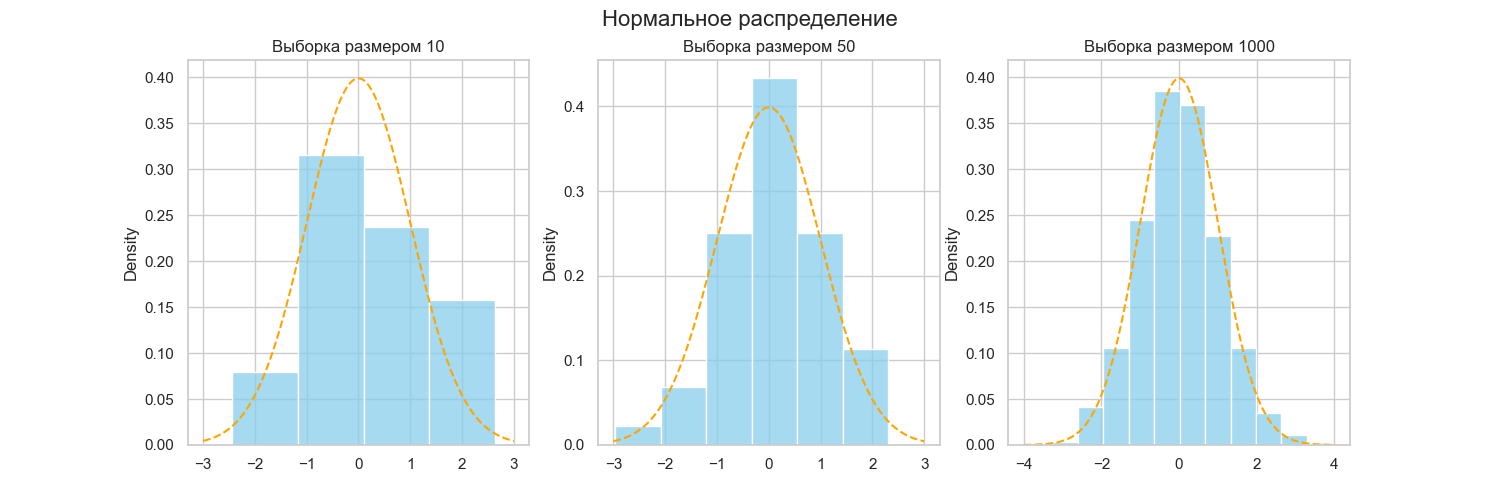
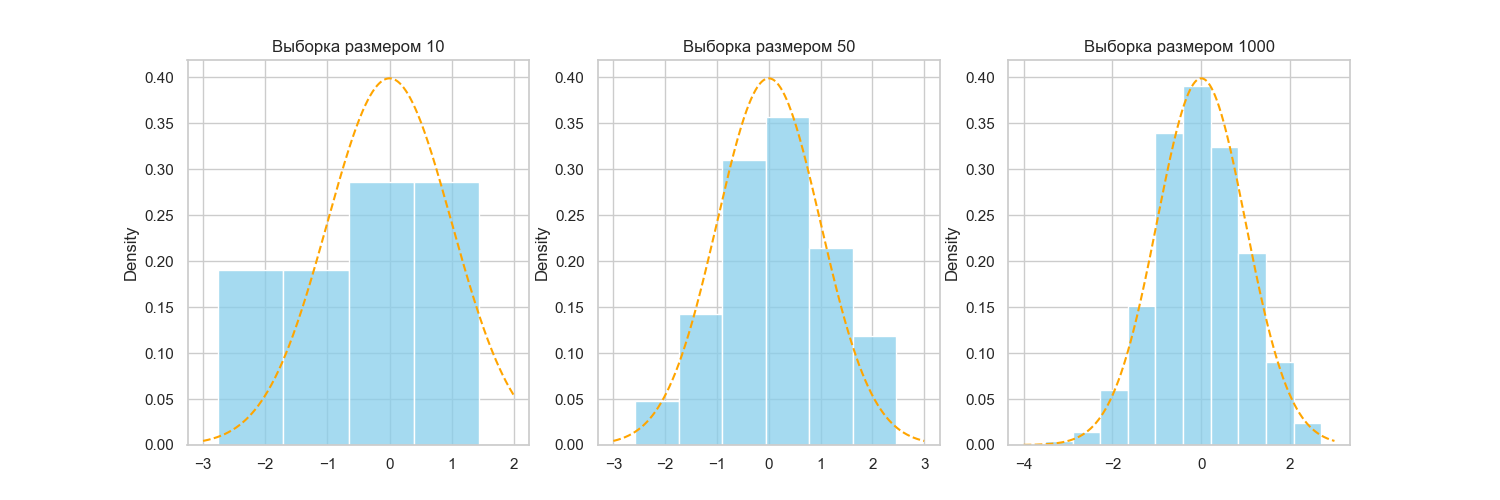
fix picture

diff --git a/main.py b/main.py
@@ -1,4 +1,3 @@
-import numpy as np
 import matplotlib.pyplot as plt
 import seaborn as sns
 import math
@@ -65,6 +64,8 @@ def generate_and_plot_cauchy_combined(sample_size, title, number):
     plt.plot(np.linspace(min_value_floor, max_value_ceil, 1000), pdf, label='PDF', linestyle='dashed', color='orange')
     plt.suptitle(title, fontsize=16)
 
+    if sample_size == 1000 or sample_size == 50:
+        plt.yscale('log')
 def print_characteristics(N: list) -> None:
     methods = [
         lambda n: np.random.normal(0.0, 1.0, n),
@@ -102,39 +103,44 @@ def print_characteristics(N: list) -> None:
             print(f"{names[i]} n = {n}")
             display(df)
 
+
+
 sample_sizes = [10, 50, 1000]
-print_characteristics(sample_sizes)
-'''
+#print_characteristics(sample_sizes)
+
+
+
+
 number = 1
 plt.figure(figsize=(15, 5))
 for size in sample_sizes:
-    generate_and_plot_normal_combined(size, 'Нормальное распределение', number)
+    generate_and_plot_normal_combined(size, '', number)
     number += 1
 plt.show()
 
 number = 1
 plt.figure(figsize=(15, 5))
 for size in sample_sizes:
-    generate_and_plot_student_combined(size, 'Распределение Стьюдента', number)
+    generate_and_plot_student_combined(size, '', number)
     number += 1
 plt.show()
 
 number = 1
 plt.figure(figsize=(15, 5))
 for size in sample_sizes:
-    generate_and_plot_poisson_combined(size, 'Распределение Пуассона (10)', number)
+    generate_and_plot_poisson_combined(size, '', number)
     number += 1
 plt.show()
 number = 1
 plt.figure(figsize=(15, 5))
 for size in sample_sizes:
-    generate_and_plot_uniform_combined(size, 'Равномерное распределение (-√3, √3)', number)
+    generate_and_plot_uniform_combined(size, '', number)
     number += 1
 plt.show()
 number = 1
 plt.figure(figsize=(15, 5))
 for size in sample_sizes:
-    generate_and_plot_cauchy_combined(size, 'Распределение Коши (0, 1)', number)
+    generate_and_plot_cauchy_combined(size, '', number)
     number += 1
 plt.show()
-'''
+
